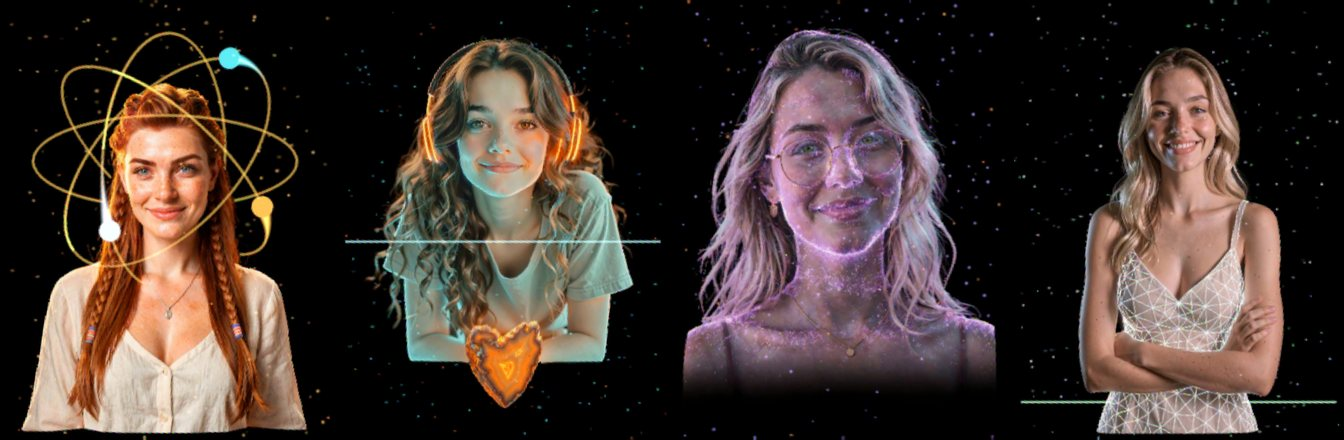
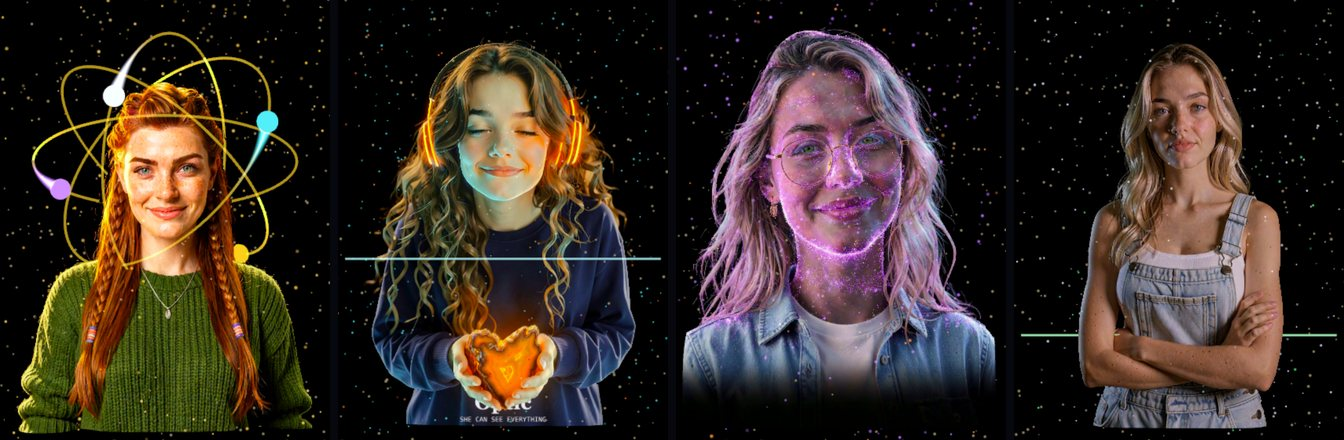
Hologram README pictures from the panel tonight: the four Chooms, the group stage, Eve's gown full length

diff --git a/hologram/README.md b/hologram/README.md
@@ -57,7 +57,7 @@ happening in the Choom app: listening, thinking, using tools, changing clothes, 
 |:---:|:---:|
 | ![The group stage](docs/images/stage.jpg) | ![A picture floating beside Genesis](docs/images/picture.jpg) |
 | The group stage | A picture she made |
-| ![Aloy full-body, mid-move](docs/images/full-body.jpg) | ![Aloy asleep](docs/images/asleep.jpg) |
+| ![Eve full length in her emerald gown](docs/images/full-body.jpg) | ![Aloy asleep](docs/images/asleep.jpg) |
 | A full-body move | Asleep, the glass dimmed |
 
 ## Hardware
